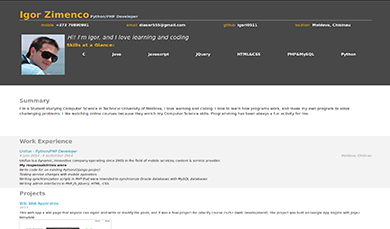
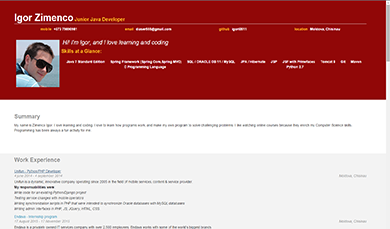
Java Developer Resume.

diff --git a/js/resumeBuilder.js b/js/resumeBuilder.js
@@ -1,7 +1,7 @@
 //create summary section
 var summary = {
 
-	"about":"I’m a Student studying Computer Science in Technical University of Moldova, I love learning and coding.\
+	"about":"My name is Zimenco Igor. I love learning and coding.\
 			I love to learn how programs work, and make my own program to solve challenging problems.\
 			I like watching online courses because they enrich my Computer Science skills.\
 			Programming has been always a fun activity for me.<br><br>",
@@ -30,11 +30,26 @@ var work = {
 		   <br><b>My responsabilities were</b>: <br><i>Write code for an existing Python/Django project<br>Testing service changes with mobile operators\
 		   <br> Writing synchronization scripts in PHP that were intended to synchronize Oracle databases with MySQL databases\
 		   <br>Writing admin interfaces in PHP, JS, JQuery, HTML, CSS.<br></i>"
+		},
+		{
+		  "employer":"Endava",
+		  "url":"http://careers.endava.com/en/Career-Opportunities/Internship-and-Graduate-Programmes/Internship-Programme/Software-Development.aspx",
+		  "title":"Internship program",
+		  "location":"Moldova, Chisinau",
+		  "dates":"17 August 2015 - 17 November 2015",
+		  "description":"Endava is a privately owned IT services company with over 2,500 employees. \
+		  Endava works with some of the world’s biggest brands <br> in Finance, Insurance, Telecommunications, Media, \
+     	  Technology, and Retail helping them harness digital technologies<br> \
+		  and transforming them into more agile, responsive and valuable businesses.<br> \
+		  <strong>During the internship program were taught the folowing technologies:</strong><br> \
+		  <i><strong>Java 7 SE , SQL/Oracle DB 11, JPA/Hibernate, Spring Framework, Java Web, JSF, Git, Maven.</strong><br>\
+		  Theoretical knowladge was enhanced by making a <strong>personal project</strong> and taking part in a <strong>real company project</strong>.</i> \
+		  "
 		}
 	],
 
 	display : function(){
-		for(job in work.jobs){
+		for(job in work.jobs){			
 			var formatted_employer = HTMLworkEmployer.replace("%data%",work.jobs[job].employer);
 			formatted_employer = formatted_employer.replace("#",work.jobs[job].url);
 			var formatted_title = HTMLworkTitle.replace("%data%",work.jobs[job].title);
@@ -79,13 +94,28 @@ var projects = {
 		},
 		{
 			"title":"Resume Project",
-			"dates":"2014",
+			"dates":"2014-2015",
 			"description":"This web page is my resume page. The project was built on Google App Engine,\
-			 and the project was focused on using JSON like objects to manage content more efficiently.<br>\
-			 <div style='color: rgb(49, 151, 116);'>Note! Modal not avaliable for this page:)</div>",
+			 and the project was focused on using JSON like objects to manage content more efficiently.<br>",
 			"image":["images/resume_project.png"],
 			"url":"#"
-		}			
+		},		
+		{
+			"title":"Classic Arcade Game Clone(Frogger)",
+			"dates":"2015",
+			"description":"The project was built on Google App Engine, and the project was focused on using\
+			 JavaScript and Canvas to make a classic arcade game on a web page.",
+			"image":["images/frogger_project.png"],
+			"url":"http://iz-frogger.appspot.com/"
+		},		
+		{
+			"title":"Wiki on Java (Endava internship)",
+			"dates":"2015",
+			"description":"The project was built on Java SE, and it was focused on using\
+			 learned technologies on internship",
+			"image":["images/post_history_wiki_java.png"],
+			"url":"http://careers.endava.com/en/Career-Opportunities/Internship-and-Graduate-Programmes/Internship-Programme/Software-Development.aspx"
+		}	
 	],
 	display : function(){
 
@@ -120,7 +150,7 @@ var projects = {
 var bio = {
 	"name": "Igor",
 	"role":"Web Developer",
-	"age" :22,
+	"age" :23,
 	"contacts":{
 		"mobile":"+373 79890981",
 		"email":"diaser555@gmail.com",
@@ -129,12 +159,12 @@ var bio = {
 	},
 	"pictute":"images/me.jpg",
 	"welcome_msg":"Hi! I'm Igor, and I love learning and coding",
-	"skills":["C","Java","Javascript","JQuery","HTML&CSS","PHP&MySQL","Python"],
+	"skills":["Java 7 Standard Edition","Spring Framework (Spring Core,Spring MVC)","SQL / ORACLE DB 11 / MySQL","JPA / Hibernate","JSP","JSF with Primefaces","Tomcat 8","Git","Maven","C Programming Language","Python 2.7"],
 	display : function(){
 
 		//header
 		var formattedName = HTMLheaderName.replace("%data%","Igor Zimenco");
-		var formattedRole = HTMLheaderRole.replace("%data%","Python/PHP Developer");
+		var formattedRole = HTMLheaderRole.replace("%data%","Junior Java Developer");
 		var formattedPicture = HTMLbioPic.replace("%data%","images/fry.jpg");
 		var formattedWelcome = HTMLWelcomeMsg.replace("%data%",bio.welcome_msg);
 
@@ -185,7 +215,7 @@ var education = {
 		  "location":"Technical University of Moldova",
 		  "degree":"BA",
 		  "major":["Applied Informatics"],
-		  "dates":"2012 -2015(not yet finished - <b><big>Student</big></b>  )",
+		  "dates":"2012 - 18 june 2015",
 		  "url":"http://www.utm.md/en"
 		}
 	],
@@ -297,6 +327,12 @@ var education = {
 			"school":"Udacity",
 			"dates":"",
 			"url":"https://www.udacity.com/course/ud245"
+		},
+		{
+			"title":"Object-Oriented JavaScript",
+			"school":"Udacity",
+			"dates":"",
+			"url":"https://www.udacity.com/course/ud015"
 		}
 	],
 

diff --git a/templates/index.html b/templates/index.html
@@ -44,8 +44,8 @@
     <div id="mapDiv">
       <h2>Where I've Lived and Worked</h2>
     </div>
-    <div id="letsConnect" class='dark-gray'>
-      <h2 class='orange center-text'>Let's Connect</h2>
+    <div id="letsConnect" >
+      <h2 class='orange center-text lets-connect-text'>Let's Connect</h2>
         <ul id="footerContacts" class="flex-box">
       </ul>
     </div>
@@ -70,7 +70,7 @@
             <img class="img-responsive image-shadow" src="images/wiki_edit_page.png">
           </div>
           <div class = "modal-text">
-            This web app a wiki page that anyone can signin and write or modify the posts,and it was a final project for Udacity course cs253 (Web Development).The project was built on Google App Engine with Jinja2 templates.At that time the project didn't include a front-end-interface, I only worked on the backend of the app.<br>Github link.<br>
+            This web app a wiki that anyone can signin and write or modify the posts,and it was a final project for Udacity course cs253 (Web Development).The project was built on Google App Engine with Jinja2 templates.At that time the project didn't include a front-end-interface, I only worked on the backend of the app.<br>Github link.<br>
             <a target="_blank" href="https://github.com/igori0511/Wiki-Application">Wiki on Github</a><br>
             Working Wiki application:<br>
             <a target="_blank" href="http://cs253class1992.appspot.com/">Working Wiki</a><br>
@@ -159,6 +159,36 @@
           
           <div class = "modal-text">
             In this course Udacity provided the code that is non parallelized, my job was to write the CUDA C part wich parallelized the computatuion on an NVIDIA GPU.
+          </div> 
+        </div>
+        <div class="modal-footer">
+          <button type="button" class="btn btn-default btn-warning" data-dismiss="modal">Close</button>
+        </div>
+      </div>
+    </div>
+  </div>
+
+ <!-- Modal for project5-->
+  <div class="modal fade" id="project6" tabindex="-1" role="dialog" aria-labelledby="myModalLabel" aria-hidden="true">
+    <div class="modal-dialog">
+      <div class="modal-content">
+        <div class="modal-header">
+          <h1 class="modal-title" id="myModalLabel">Wiki project</h1>
+        </div>
+        <div class="modal-body ">
+          <div class="flex-box-image">
+            <h3>History page</h3>
+            <img class="img-responsive image-shadow" src="images/post_history_wiki_java.png">
+            <h3>Create new post page</h3>
+            <img class="img-responsive image-shadow" src="images/wiki_create_new_post.png">
+            <h3>Login page</h3>
+            <img class="img-responsive image-shadow" src="images/wiki_login_page_java.png">
+          </div>
+          <div class = "modal-text">
+            This web app is a wiki that anyone can signin and write or modify the posts,and it was a personal project at
+            Endava internship. It uses <strong> Java SE 7, Spring Framework(Spring MVC, Spring Core, Spring Security), 
+            JPA with Hiberante, Oracle XE 11, Maven and Bootstrap </strong>.
+            <a target="_blank" href="https://github.com/igori0511/Wiki-on-Java">Wiki on Java - Github</a><br>
           </div> 
         </div>
         <div class="modal-footer">

diff --git a/css/style.css b/css/style.css
@@ -12,6 +12,10 @@ hr{
   overflow: auto;
 }
 
+#name{
+  color:white;
+}
+
 .education-entry, .work-entry, .project-entry,.summary-entry {
   padding-left: 5%;
   padding-right: 5%;
@@ -101,7 +105,7 @@ a {
 }
 
 .orange-text {
-
+  font-weight: bold;
   color: #F5AE23;
 }
 
@@ -121,9 +125,9 @@ a {
   background-color: #4A4A4A;
 }
 
-/* TODO: Replace with image later */
 #header {
-  background-color: #484848;
+  background-color: #910707;
+
 }
 
 .flex-box {
@@ -133,6 +137,7 @@ a {
   flex-wrap: wrap;
   justify-content: space-around;
   padding: 10px;
+
 }
 
 .center-content {
@@ -177,6 +182,11 @@ span {
 
 #letsConnect {
   text-align: center;
+  background-color: #910707;
+}
+
+.lets-connect-text{
+  color:#FFFFFF;
 }
 
 @media only screen and (max-width: 1024px) {
@@ -225,8 +235,9 @@ span {
 }
 
 .blue-text{
-  color:#C1D0E1;
+  color:#F5AE23;
   font-weight: bold;
+  font-size: 20px;
 }
 
 .flex-box-image{
